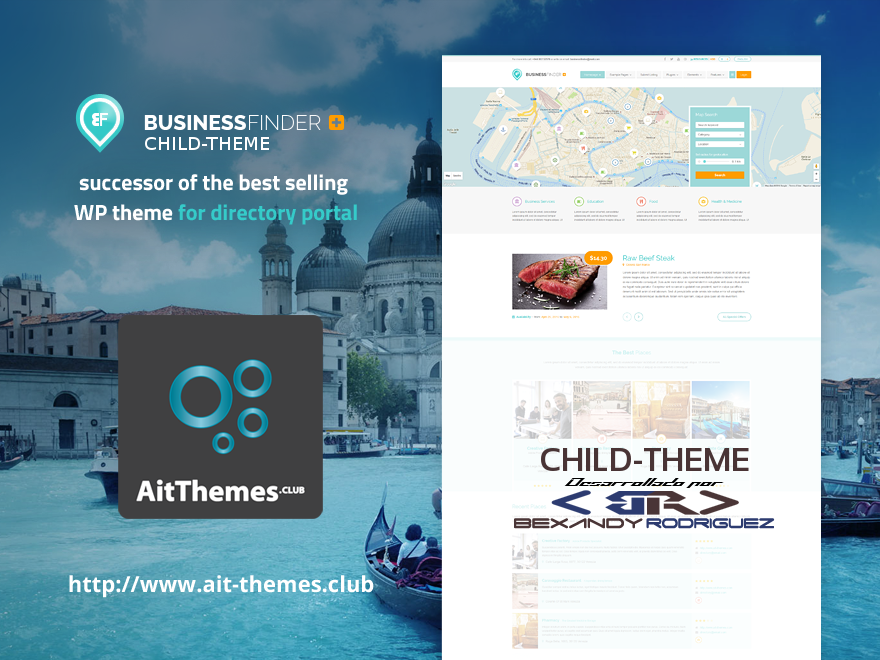
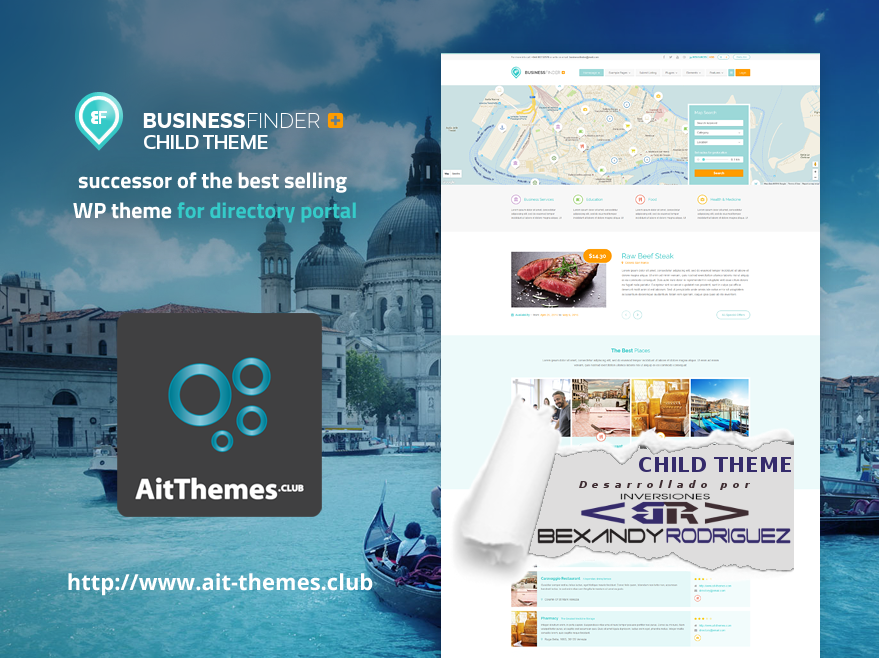
Contact Data in Featured List Items Homepage

diff --git a/custom.css b/custom.css
@@ -7,30 +7,35 @@ Add your custom styles in this file so it is easier to update the theme.
 /************************************************************************
 ***************** Address Container in Featured Items Box ***************
 ************************************************************************/
-.item-featured .item-box-content-wrap .address-container {
+.item-featured .item-box-content-wrap .address-container,
+.item-featured .item-info-wrap .address-container {
     position: relative;
 }
 
-.elm-items-main .layout-box .item-featured .item-box-content-wrap .item-location {
+.elm-items-main .layout-box .item-featured .item-box-content-wrap .item-location, 
+.elm-items-main .layout-box .item-featured .item-info-wrap .item-location {
     padding: 0 20px 0px 20px;
 }
 
 /* Texto Address */
-.item-featured .item-box-content-wrap .address-container h2 {
+.item-featured .item-box-content-wrap .address-container h2,
+.item-featured .item-info-wrap .address-container h2 {
     margin-bottom: 1px;
     padding: 15px 50px 15px 20px;
     position: relative;
     background: #f7f7f7;
 }
 
-.item-featured .item-box-content-wrap .address-container h2 {
+.item-featured .item-box-content-wrap .address-container h2,
+.item-featured .item-info-wrap .address-container h2 {
     font-size: 16px;
     line-height: 20px;
     text-align: left;
 }
 
 /* Contenedor de Datos de Address */
-.item-featured .item-box-content-wrap .address-container > .content {
+.item-featured .item-box-content-wrap .address-container > .content, 
+.item-featured .item-info-wrap .address-container > .content {
     width: 100%;
     padding: 10px 20px 20px 20px;
     background: #f7f7f7;
@@ -39,45 +44,53 @@ Add your custom styles in this file so it is easier to update the theme.
     box-sizing: border-box;
 }
 
-.item-featured .item-box-content-wrap .address-container .content {
+.item-featured .item-box-content-wrap .address-container .content,
+.item-featured .item-info-wrap .address-container .content {
     display: table;
     table-layout: fixed;
 }
 
 
 /* Redes Sociales */
-.item-featured .item-box-content-wrap a {
+.item-featured .item-box-content-wrap a,
+.item-featured .item-info-wrap a {
     display: inline-block !important;
 }
 
 /* Filas de Datos Address */
-.item-featured .item-box-content-wrap .address-row {
+.item-featured .item-box-content-wrap .address-row,
+.item-featured .item-info-wrap .address-row {
     display: table-row;
 }
 
 /* Campo Name Address */
-.item-featured .item-box-content-wrap .address-name {
+.item-featured .item-box-content-wrap .address-name,
+.item-featured .item-info-wrap .address-name {
     display: table-cell;
-    width: 25%;
+    width: 20%;
     padding: 0 15px 0 0px;
     -moz-box-sizing: border-box;
     -webkit-box-sizing: border-box;
     box-sizing: border-box;
 }
 
-.item-featured .item-box-content-wrap .address-name h5 {
+.item-featured .item-box-content-wrap .address-name h5,
+.item-featured .item-info-wrap .address-name h5 {
     position: relative;
     margin: 0;
 }
 
 /* Campo Data Address */
-.item-featured .item-box-content-wrap .address-data {
+.item-featured .item-box-content-wrap .address-data,
+.item-featured .item-info-wrap .address-data {
     display: table-cell;
     word-wrap: break-word;
+    text-align: center;
 }
 
 /* Boton de Contacto */
-.item-featured .item-box-content-wrap .contact-owner-container a {
+.item-featured .item-box-content-wrap .contact-owner-container a,
+.item-featured .item-info-wrap .contact-owner-container a {
     background: #9cd8d8;
     color: #fff;
     display: inline-block;
@@ -99,7 +112,8 @@ Add your custom styles in this file so it is easier to update the theme.
     padding: 5px 25px;
 }
 
-.item-featured .item-box-content-wrap .contact-owner-container a {
+.item-featured .item-box-content-wrap .contact-owner-container a,
+.item-featured .item-info-wrap .contact-owner-container a {
     font-size: 14px;
     line-height: 24px;
 }

diff --git a/portal/parts/child-single-item-contact-owner.php b/portal/parts/child-single-item-contact-owner.php
@@ -11,10 +11,10 @@
 <div n:class="contact-owner-container, $disabled ? contact-owner-disabled">
 
 	{if !$disabled}
-	<a href="#contact-owner-popup-form" id="contact-owner-popup-button-{$item->id}" class="contact-owner-popup-button">{$settings->contactOwnerButtonTitle|trimWords:10}</a>
+	<a href="#contact-owner-popup-form" id="contact-owner-popup-button-{$htmlId}-{$item->id}" class="contact-owner-popup-button">{$settings->contactOwnerButtonTitle|trimWords:10}</a>
 	<div class="contact-owner-popup-form-container" style="display: none">
 
-		<form id="contact-owner-popup-form-{$item->id}" class="contact-owner-popup-form" onSubmit="javascript:contactOwnerSubmit{$item->id}(event);">
+		<form id="contact-owner-popup-form-{$htmlId}-{$item->id}" class="contact-owner-popup-form" onSubmit="javascript:contactOwnerSubmit{$item->id}(event);">
 			<h3>{$settings->contactOwnerButtonTitle}</h3>
 			<input type="hidden" name="response-email-address" value="{$meta->email}">
 			<input type="hidden" name="response-email-content" value="{$settings->contactOwnerMailForm}">
@@ -29,28 +29,28 @@
 			{/if}
 			
 			<div class="input-container">
-				<input type="text" class="input name" name="user-name" value="" placeholder="{$settings->contactOwnerInputNameLabel}" id="user-name">
+				<input type="text" class="input name" name="user-name" value="" placeholder="{$settings->contactOwnerInputNameLabel}" id="user-name-{$htmlId}-{$item->id}">
 				{if isset($settings->contactOwnerInputNameHelper) && $settings->contactOwnerInputNameHelper != ""}
 					<span class="input-helper">{!$settings->contactOwnerInputNameHelper}</span>
 				{/if}
 			</div>
 
 			<div class="input-container">
-				<input type="text" class="input email" name="user-email" value="" placeholder="{$settings->contactOwnerInputEmailLabel}" id="user-email">
+				<input type="text" class="input email" name="user-email" value="" placeholder="{$settings->contactOwnerInputEmailLabel}" id="user-email-{$htmlId}-{$item->id}">
 				{if isset($settings->contactOwnerInputEmailHelper) && $settings->contactOwnerInputEmailHelper != ""}
 					<span class="input-helper">{!$settings->contactOwnerInputEmailHelper}</span>
 				{/if}
 			</div>
 
 			<div class="input-container">
-				<input type="text" class="input subject" name="response-email-subject" value="" placeholder="{$settings->contactOwnerInputSubjectLabel}" id="user-subject">
+				<input type="text" class="input subject" name="response-email-subject" value="" placeholder="{$settings->contactOwnerInputSubjectLabel}" id="user-subject-{$htmlId}-{$item->id}">
 				{if isset($settings->contactOwnerInputSubjectHelper) && $settings->contactOwnerInputSubjectHelper != ""}
 					<span class="input-helper">{!$settings->contactOwnerInputSubjectHelper}</span>
 				{/if}
 			</div>
 
 			<div class="input-container">
-				<textarea class="user-message" name="user-message" cols="30" rows="4" placeholder="{$settings->contactOwnerInputMessageLabel}" id="user-message"></textarea>
+				<textarea class="user-message" name="user-message" cols="30" rows="4" placeholder="{$settings->contactOwnerInputMessageLabel}" id="user-message-{$htmlId}-{$item->id}"></textarea>
 				{if isset($settings->contactOwnerInputMessageHelper) && $settings->contactOwnerInputMessageHelper != ""}
 					<span class="input-helper">{!$settings->contactOwnerInputMessageHelper}</span>
 				{/if}
@@ -87,7 +87,7 @@
 	</div>
 	<script type="text/javascript" n:syntax="off">
 	jQuery(document).ready(function(){
-		jQuery("#contact-owner-popup-button-<?php echo $item->id ?>").colorbox({ inline:true, href:"#contact-owner-popup-form-<?php echo $item->id ?>" });
+		jQuery("#contact-owner-popup-button-<?php echo $htmlId ?>-<?php echo $item->id ?>").colorbox({ inline:true, href:"#contact-owner-popup-form-<?php echo $htmlId ?>-<?php echo $item->id ?>" });
 	});
 	function contactOwnerSubmit<?php echo $item->id ?>(e){
 		e.preventDefault();
@@ -241,6 +241,6 @@
 
 	</script>
 	{else}
-	<a href="#contact-owner-popup-form" id="contact-owner-popup-button-{$item->id}" class="contact-owner-popup-button">{$settings->contactOwnerButtonDisabledTitle|trimWords:10}</a>
+	<a href="#contact-owner-popup-form" id="contact-owner-popup-button-{$htmlId}-{$item->id}" class="contact-owner-popup-button">{$settings->contactOwnerButtonDisabledTitle|trimWords:10}</a>
 	{/if}
 </div>

diff --git a/portal/parts/item-container.php b/portal/parts/item-container.php
@@ -60,6 +60,7 @@
 
 			<div class="item-location"><p class="txtrows-2">{$meta->map['address']}</p></div>
 			
+			{if $isFeatured }
 			<div class="column-grid column-grid-2">
 
 				<div class="column column-span-2 column-narrow column-last">
@@ -82,7 +83,8 @@
 					{/if}
 				</div>
 			</div>
-
+			{/if}
+			
 			{if $addInfo}
 				{if defined('AIT_REVIEWS_ENABLED')}
 					{includePart "portal/parts/carousel-reviews-stars", item => $item, showCount => false}
@@ -133,26 +135,52 @@
 			{if defined('AIT_REVIEWS_ENABLED')}
 				{includePart "portal/parts/carousel-reviews-stars", item => $item, showCount => false}
 			{/if}
+			
+			{if $isFeatured }
+				<div class="column-grid column-grid-2">
 
-			{capture $itemWeb}
-				{if $meta->webLinkLabel}
-					{$meta->webLinkLabel}
-				{else}
-					{$meta->web}
+					<div class="column column-span-2 column-narrow column-last">
+						{* ADDRESS SECTION *}
+						{includePart portal/parts/child-single-item-address}
+						{* ADDRESS SECTION *}
+
+						{if ($meta->contactOwnerBtn and $meta->email) or (defined('AIT_GET_DIRECTIONS_ENABLED'))}
+						<div class="contact-buttons-container">
+						{* CONTACT OWNER SECTION *}
+						{includePart portal/parts/child-single-item-contact-owner}
+						{* CONTACT OWNER SECTION *}
+
+						{* GET DIRECTIONS SECTION *}
+						{if defined('AIT_GET_DIRECTIONS_ENABLED')}
+							{includePart portal/parts/get-directions-button}
+						{/if}
+						{* GET DIRECTIONS SECTION *}
+						</div>
+						{/if}
+					</div>
+				</div>
+			{else}
+				{capture $itemWeb}
+					{if $meta->webLinkLabel}
+						{$meta->webLinkLabel}
+					{else}
+						{$meta->web}
+					{/if}
+				{/capture}
+
+				{if $meta->web}
+				<div class="item-web icon-label">
+					<i class="fa fa-home"></i> <a href="{$meta->web}">{$itemWeb}</a>
+				</div>
 				{/if}
-			{/capture}
 
-			{if $meta->web}
-			<div class="item-web icon-label">
-				<i class="fa fa-home"></i> <a href="{$meta->web}">{$itemWeb}</a>
-			</div>
+				{if $meta->email and $meta->showEmail}
+				<div class="item-mail icon-label">
+					<i class="fa fa-envelope"></i> <a href="mailto:{$meta->email}" target="_top">{$meta->email}</a>
+				</div>
+				{/if}
 			{/if}
-
-			{if $meta->email and $meta->showEmail}
-			<div class="item-mail icon-label">
-				<i class="fa fa-envelope"></i> <a href="mailto:{$meta->email}" target="_top">{$meta->email}</a>
-			</div>
-			{/if}
+			
 
 			{if $item->categories('ait-items')}
 			<div class="item-categories">
